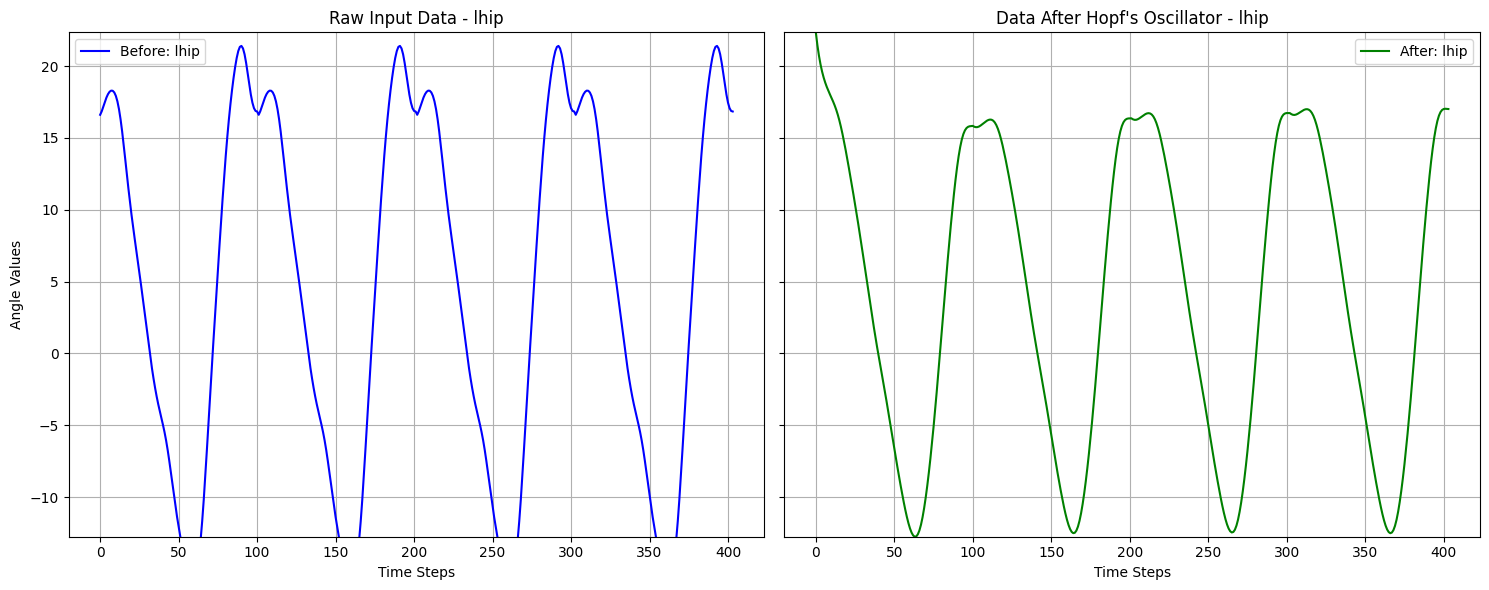
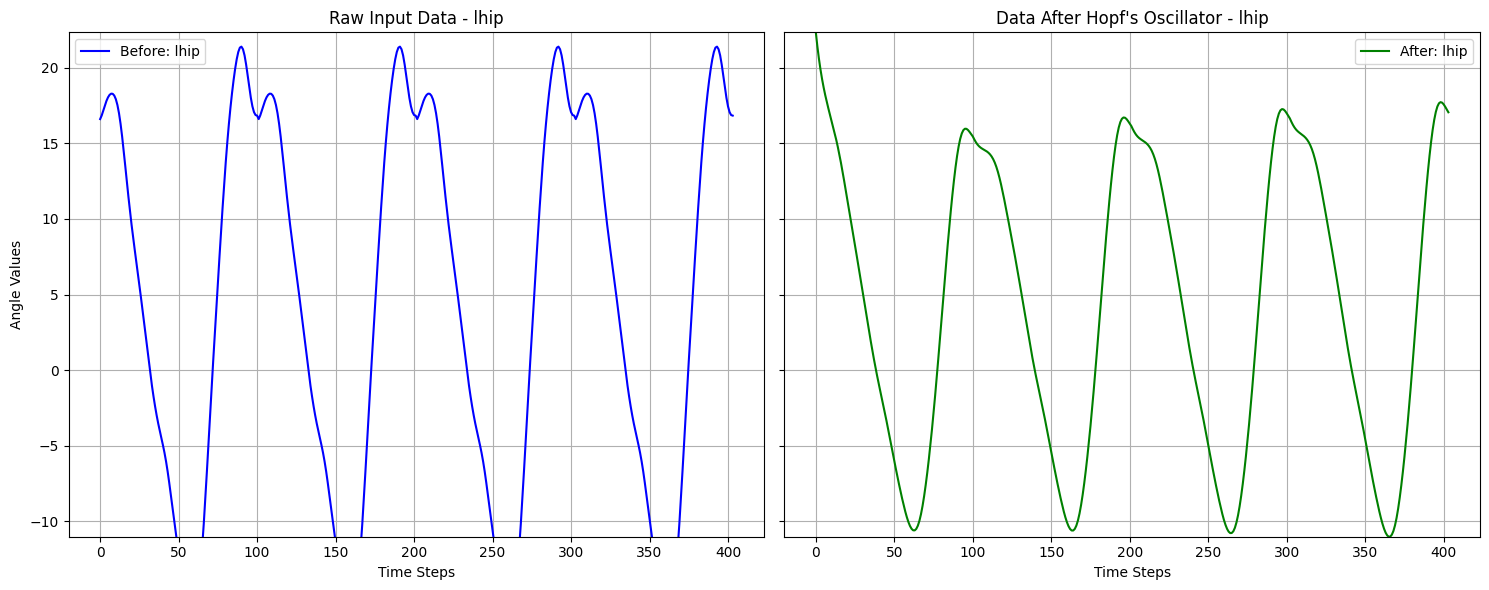
Adds default coupling

diff --git a/main.py b/main.py
@@ -2,6 +2,7 @@ import os
 import pandas as pd
 from utils.visualizer import plot_data
 from hopf_oscillator import HopfOscillator  # Import the new HopfOscillator
+import numpy as np
 
 def main():
     # Paths
@@ -33,7 +34,13 @@ def main():
     # Step 3: Apply the Hopf Oscillator
     print("Applying Hopf Oscillator...")
     dt = 0.01  # Set the dt value
-    hopf = HopfOscillator(dt=dt, coupling_strength=0.1)
+    coupling_matrix = np.zeros((numeric_data.shape[1], numeric_data.shape[1]))
+    for i in range(numeric_data.shape[1]):
+        for j in range(numeric_data.shape[1]):
+            if i != j:
+                coupling_matrix[i, j] = 0.5  # Or any other desired coupling strength
+
+    hopf = HopfOscillator(dt=dt, coupling_strength=coupling_matrix)
     smoothed_data = hopf.run(numeric_data.to_numpy())  # Use the run method
 
     # Step 4: Visualize the raw data and smoothed data

diff --git a/hopf_oscillator.py b/hopf_oscillator.py
@@ -20,6 +20,15 @@ class HopfOscillator:
         self.b = 0.0
 
     def compute_coupling(self, x, index, all_x):
+        # self.coupling_strength is expected to be a numpy array
+        # representing a coupling matrix.  For example:
+        # coupling_matrix = np.array([[0.0, 0.5], [0.5, 0.0]])
+        # This matrix would define the coupling between two oscillators.
+        # In this example, oscillator 0 is coupled to oscillator 1 with a
+        # strength of 0.5, and oscillator 1 is coupled to oscillator 0 with
+        # a strength of 0.5.  The diagonal elements are typically 0, as an
+        # oscillator doesn't couple to itself.
+
         if self.coupling_strength is None:
             return 0.0
         coupling = 0.0
